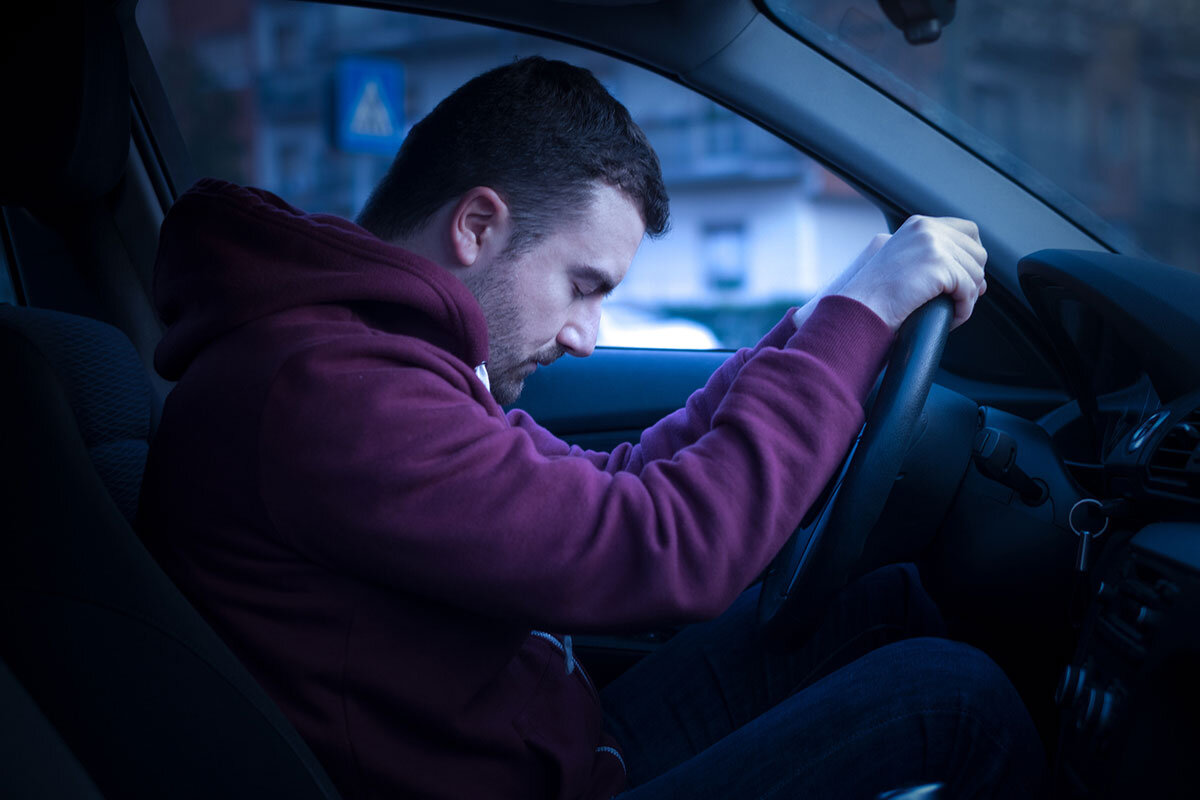
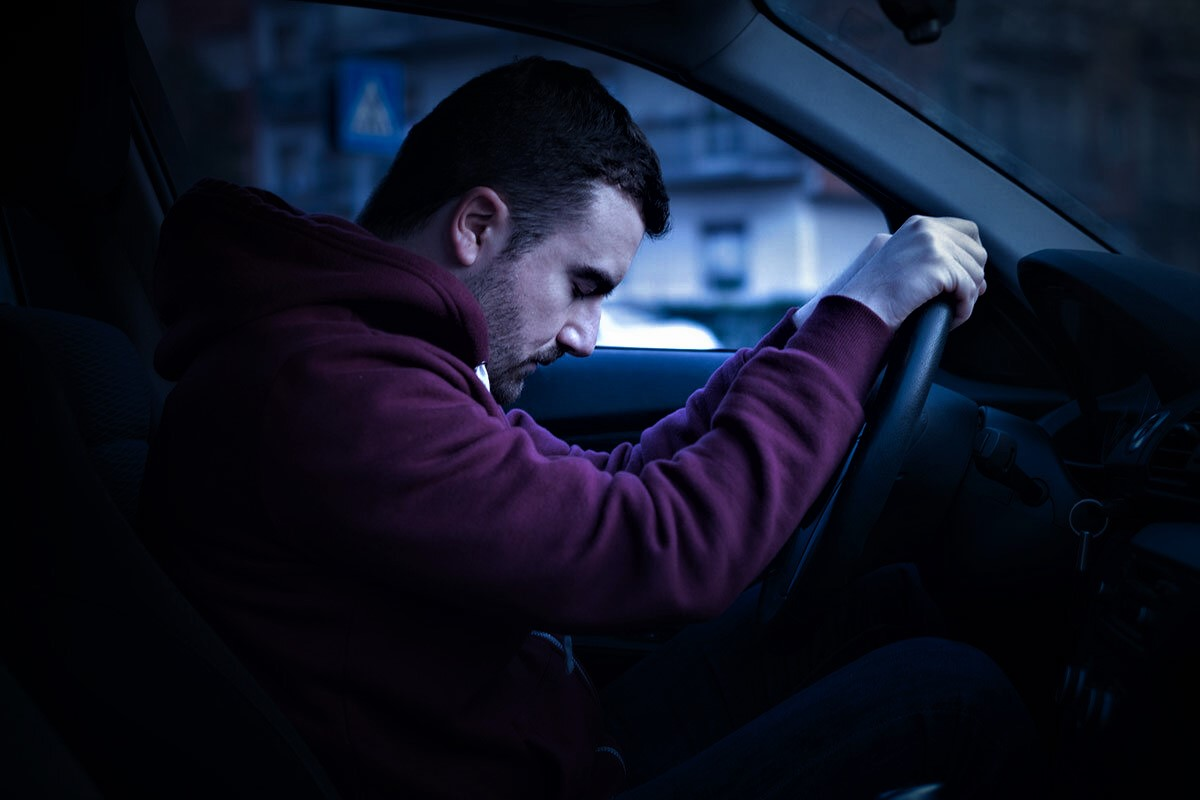
homepage added

diff --git a/index.html b/index.html
@@ -14,7 +14,7 @@
             <a href="#">About</a>
             <a href="#">Services</a>
             <a href="#">Contact</a>
-            <button class="btnLogin-popup">Login</button>
+            <button class="btnLogin-popup">Signup</button>
         </nav>
     
     </header>

diff --git a/style.css b/style.css
@@ -10,7 +10,7 @@ body{
     justify-content: center;
     align-items: center;
     min-height: 100vh;
-    background: url('images/drowzi.jpg')no-repeat;
+    background: url('images/drow2.jpg')no-repeat;
     background-size: cover;
     background-position: center;
 
